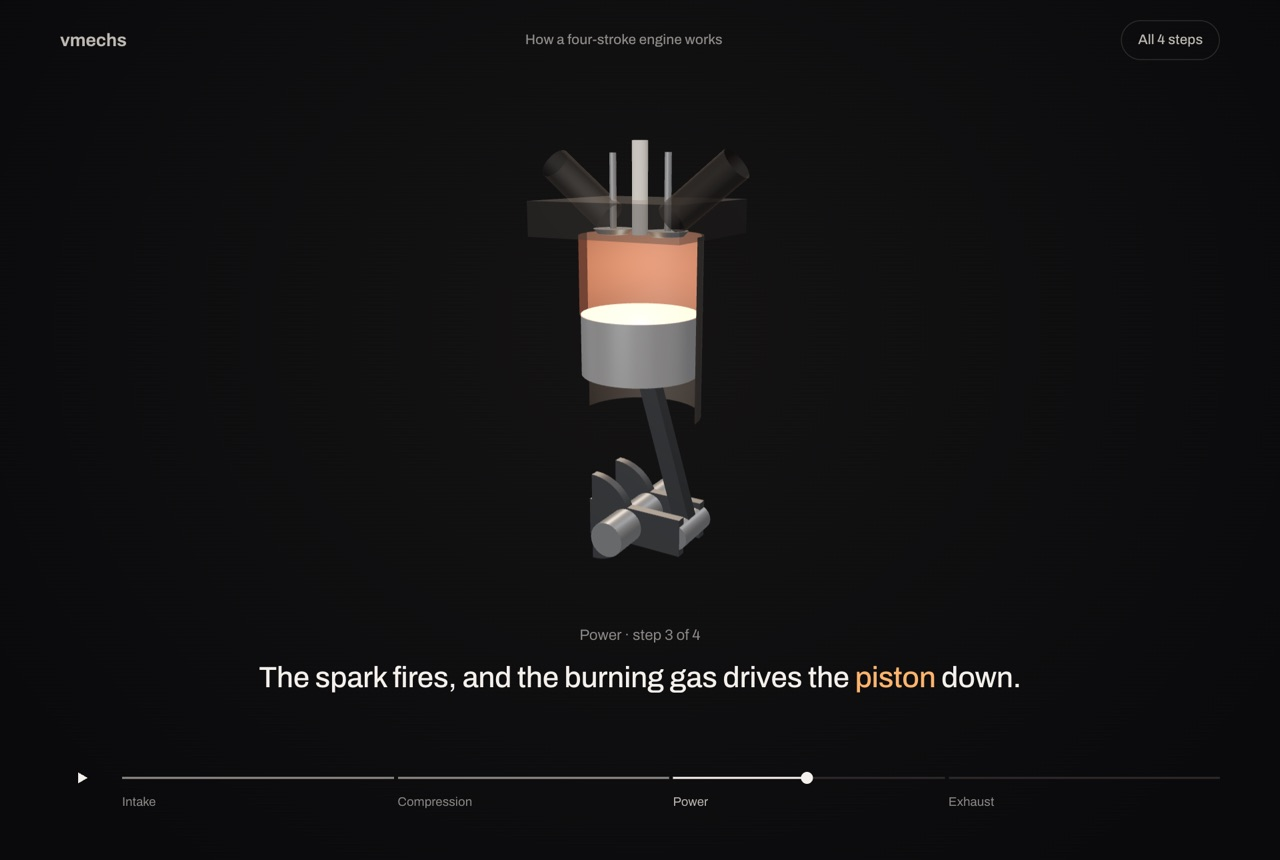
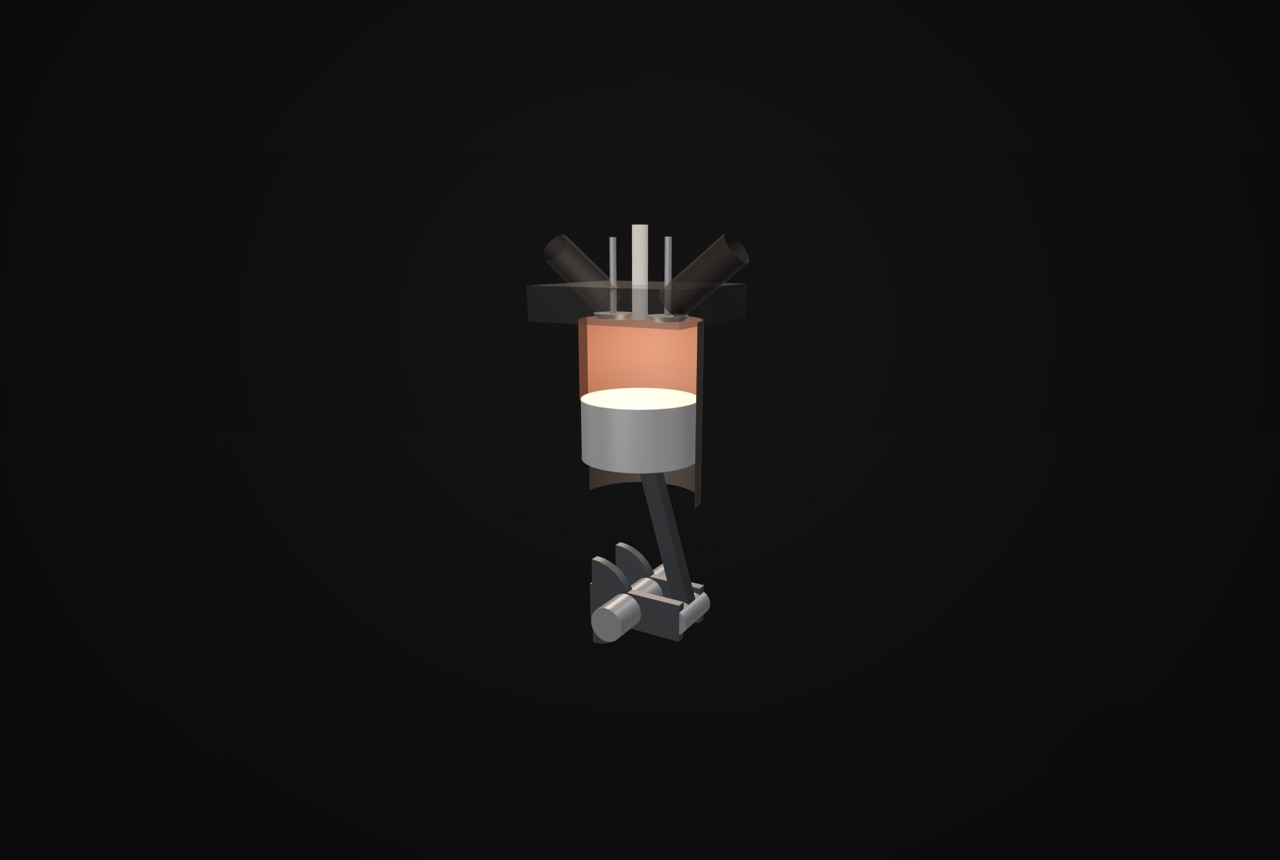
Show only the scene in lesson covers, and space the Open now cards
Covers keep the scene at the size it has in the lesson, centred, with the header, subtitle and timeline hidden: at card size they were unreadable. Two cards in Open now touched; they now sit 20px apart.

diff --git a/src/routes/+page.svelte b/src/routes/+page.svelte
@@ -370,6 +370,9 @@
 		background: var(--surface);
 		transition: border-color 0.15s ease-out;
 	}
+	.feature + .feature {
+		margin-top: 20px;
+	}
 	.feature:hover,
 	.feature:focus-within {
 		border-color: var(--ink-3);

diff --git a/docs/CONTENT.md b/docs/CONTENT.md
@@ -8,7 +8,7 @@ Every lesson on vmechs meets this standard before it's published. Rules marked *
 - **Review date (enforced).** `reviewed` is the date the lesson was last checked against its sources, as `YYYY-MM-DD`, and it can't be in the future. Update it whenever the content is re-checked, not when typos are fixed.
 - **Simplifications are labelled.** List every place the lesson departs from a real car in `simplifications`, in plain language. Mention the important ones in the lesson body too, where they appear.
 - **Physics lives in tested code.** Positions, timings and ratios come from pure functions with unit tests (for example `src/lib/mechanisms/engine/kinematics.ts`), never from hand-placed animation.
-- **Cover image (optional, enforced if set).** `cover: /covers/<slug>.jpg` shows the lesson on the homepage. The file must exist in `static/covers/`; use a still of the lesson itself at 1280×860, saved as JPEG.
+- **Cover image (optional, enforced if set).** `cover: /covers/<slug>.jpg` shows the lesson on the homepage. The file must exist in `static/covers/`; use a still of the lesson at 1280×860, saved as JPEG, with the scene at the size it appears in the lesson and centred. Hide the header, subtitle and timeline; at card size they are unreadable.
 - **Corrections are welcome.** Every lesson ends with a "Report a mistake" link to the issue form. Fix confirmed mistakes promptly and update `reviewed`.
 
 ## Writing
